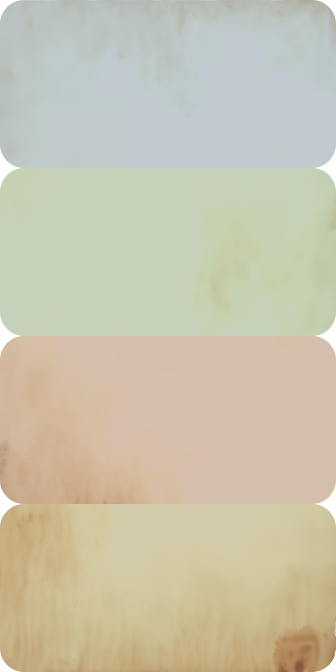
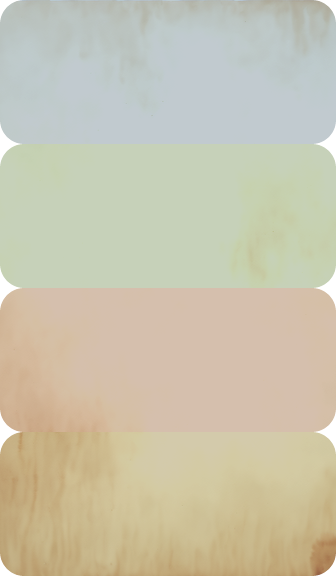
スロットボタンの紙を、ボタンと同じ縦横比（336x144）で切り出す
紙の1枚は336x168で、ボタン（SIZE.slotButton 168x72u）の2倍の336x144と高さだけずれていた。
敷くときにボタンの矩形へ引き伸ばすので、紙の粒と焼いた角丸が縦に潰れていた。

寸法の出どころをレシピ1箇所へ寄せ（button_paper.py は既定値を持たない）、
SIZE.slotButton の2倍・SLOT_BUTTON_PAPER_FRAME・レシピ・生成物が揃っているかをテストで検める。

Claude-Session: https://claude.ai/code/session_01A2A18ep9CcWoN4WzMVYPtE

diff --git a/tests/art/slotButtonPaper.test.ts b/tests/art/slotButtonPaper.test.ts
@@ -1,0 +1,53 @@
+import { readFileSync } from 'node:fs';
+import { resolve } from 'node:path';
+import { describe, expect, it } from 'vitest';
+import { SLOT_BUTTON_PAPER_FRAME } from '../../src/art/slotButtonArt';
+import { SIZE } from '../../src/game/looks/theme';
+
+const ROOT = resolve(__dirname, '../..');
+
+interface ButtonPaperRecipe {
+  readonly output: string;
+  readonly buttonPaper: {
+    readonly at: readonly string[];
+    readonly width: number;
+    readonly height: number;
+    readonly radius: number;
+  };
+}
+
+const recipe = JSON.parse(
+  readFileSync(resolve(ROOT, 'tools/comfyui/recipes/slot_button_paper.json'), 'utf-8'),
+) as ButtonPaperRecipe;
+
+/** PNGの寸法（IHDRチャンクの幅と高さ）。 */
+function pngSize(path: string): { width: number; height: number } {
+  const bytes = readFileSync(path);
+  return { width: bytes.readUInt32BE(16), height: bytes.readUInt32BE(20) };
+}
+
+/**
+ * スロットボタンの紙は、ボタンの矩形へ引き伸ばして敷く（PaperButton）。**縦横比が違うと紙の粒が
+ * 一方向へ伸びる**ので、切り出し・読み込み・生成物の寸法が、どれもボタンの2倍で揃っていなければならない。
+ */
+describe('スロットボタンの紙の寸法', () => {
+  it('1枚の寸法は、ボタン（SIZE.slotButton）の2倍', () => {
+    expect(SLOT_BUTTON_PAPER_FRAME).toEqual({
+      width: SIZE.slotButton.width * 2,
+      height: SIZE.slotButton.height * 2,
+    });
+  });
+
+  it('レシピが切り出す寸法と角丸は、読み込む1枚の寸法とボタンの角丸の2倍に揃っている', () => {
+    const { width, height, radius } = recipe.buttonPaper;
+    expect({ width, height }).toEqual(SLOT_BUTTON_PAPER_FRAME);
+    expect(radius).toBe(SIZE.radius * 2);
+  });
+
+  it('生成物は、その1枚をレシピの切り出しの数だけ縦に積んだシート', () => {
+    expect(pngSize(resolve(ROOT, recipe.output))).toEqual({
+      width: SLOT_BUTTON_PAPER_FRAME.width,
+      height: SLOT_BUTTON_PAPER_FRAME.height * recipe.buttonPaper.at.length,
+    });
+  });
+});

diff --git a/src/art/slotButtonArt.ts b/src/art/slotButtonArt.ts
@@ -9,8 +9,12 @@ import slotButtonPaperUrl from '../assets/ui/slot_button_paper.png';
  */
 export const SLOT_BUTTON_PAPER_TEXTURE = 'slotButtonPaper';
 
-/** その1枚の寸法（tools/comfyui/button_paper.py の TILE_WIDTH / TILE_HEIGHT と揃える）。 */
-export const SLOT_BUTTON_PAPER_FRAME = { width: 336, height: 168 };
+/**
+ * その1枚の寸法。**ボタン（theme.ts の `SIZE.slotButton`）の2倍**で、縦横比が違うと敷くときに紙の粒が
+ * 伸びる。切り出す寸法はレシピ（`recipes/slot_button_paper.json`）が持ち、揃っているかは
+ * `tests/art/slotButtonPaper.test.ts` が検める。
+ */
+export const SLOT_BUTTON_PAPER_FRAME = { width: 336, height: 144 };
 
 /** テクスチャキー → 画像のURL。 */
 export const SLOT_BUTTON_PAPER_ART: ReadonlyMap<string, string> = new Map([

diff --git a/tools/comfyui/button_paper.py b/tools/comfyui/button_paper.py
@@ -4,11 +4,13 @@
 いけない**——ボタンとカードは別の概念で、片方の都合（切り出しをフレームとして足す等）がもう片方の
 描画を壊す。同じ生成物から切り出した、ボタン専用のPNGを持たせる。
 
-    python button_paper.py paper.png --out slot_button_paper.png \
+    python button_paper.py paper.png --out slot_button_paper.png --width 336 --height 144 --radius 24 \
         --at 37,40 --tint "#c2cdd8" --at 37,236 --tint "#c7d4c1" --at 37,432 --tint "#d7c2b5"
 
 **ボタンごとに別の場所を取る。** 同じ場所だと3つのボタンに同じ染みが並び、模様として目に付く。
-切り出す大きさはボタンと同じ縦横比にしておく（引き伸ばすと紙の粒が一方向へ伸びる）。
+切り出す大きさはボタンと同じ縦横比にしておく（引き伸ばすと紙の粒が一方向へ伸びる）。**寸法は
+既定値を持たず、レシピ（recipes/slot_button_paper.json）から渡す**——ボタンの寸法と揃っているかは
+そちらを tests/art/slotButtonPaper.test.ts が検める。
 
 **染めと角丸は絵に焼く。** カードの枠（card_frame.py）と同じ扱いで、ゲーム側は敷くだけにする
 （実行時の乗算・切り抜きはWebGL専用で、WebGLの無い環境では色も角丸も消える）。
@@ -28,11 +30,6 @@ import numpy as np
 from PIL import Image
 
 from card_frame import CARD_HEIGHT, CARD_WIDTH, cover, rounded_mask
-
-# ボタンの絵の寸法と角丸（theme.ts の SIZE.slotButton / SIZE.radius の2倍。絵はuの2倍で描く約束）。
-TILE_WIDTH = 336
-TILE_HEIGHT = 168
-RADIUS = 24
 
 AT_PATTERN = re.compile(r"^(\d+),(\d+)$")
 
@@ -56,9 +53,9 @@ def main() -> None:
                         help="切り出す左上の位置（410x640に均した紙の座標）。ボタンの数だけ重ねる")
     parser.add_argument("--tint", action="append", metavar="#RRGGBB",
                         help="タイルへ乗算する色（染めた紙）。--at と同じ数だけ、同じ順で並べる")
-    parser.add_argument("--width", type=int, default=TILE_WIDTH)
-    parser.add_argument("--height", type=int, default=TILE_HEIGHT)
-    parser.add_argument("--radius", type=int, default=RADIUS, help="角丸の半径（0で角丸なし）")
+    parser.add_argument("--width", type=int, required=True, help="1枚の幅（px）")
+    parser.add_argument("--height", type=int, required=True, help="1枚の高さ（px）")
+    parser.add_argument("--radius", type=int, required=True, help="角丸の半径（0で角丸なし）")
     parser.add_argument("--paper", default="#fcf8e6", help="紙の色を寄せる目標（#RRGGBB）")
     parser.add_argument("--wash", type=float, default=0.0, help="ムラを平均へ寄せる度合い（0〜1）")
     args = parser.parse_args()

diff --git a/tools/comfyui/build.py b/tools/comfyui/build.py
@@ -332,7 +332,9 @@ def main() -> None:
                     "--out", str(processed),
                     *[str(v) for at in paper["at"] for v in ("--at", at)],
                     *[str(v) for tint in paper.get("tint", []) for v in ("--tint", tint)],
-                    *(["--radius", str(paper["radius"])] if "radius" in paper else []),
+                    "--width", str(paper["width"]),
+                    "--height", str(paper["height"]),
+                    "--radius", str(paper["radius"]),
                     "--paper", paper["paper"],
                     "--wash", str(paper["wash"]),
                 ],
